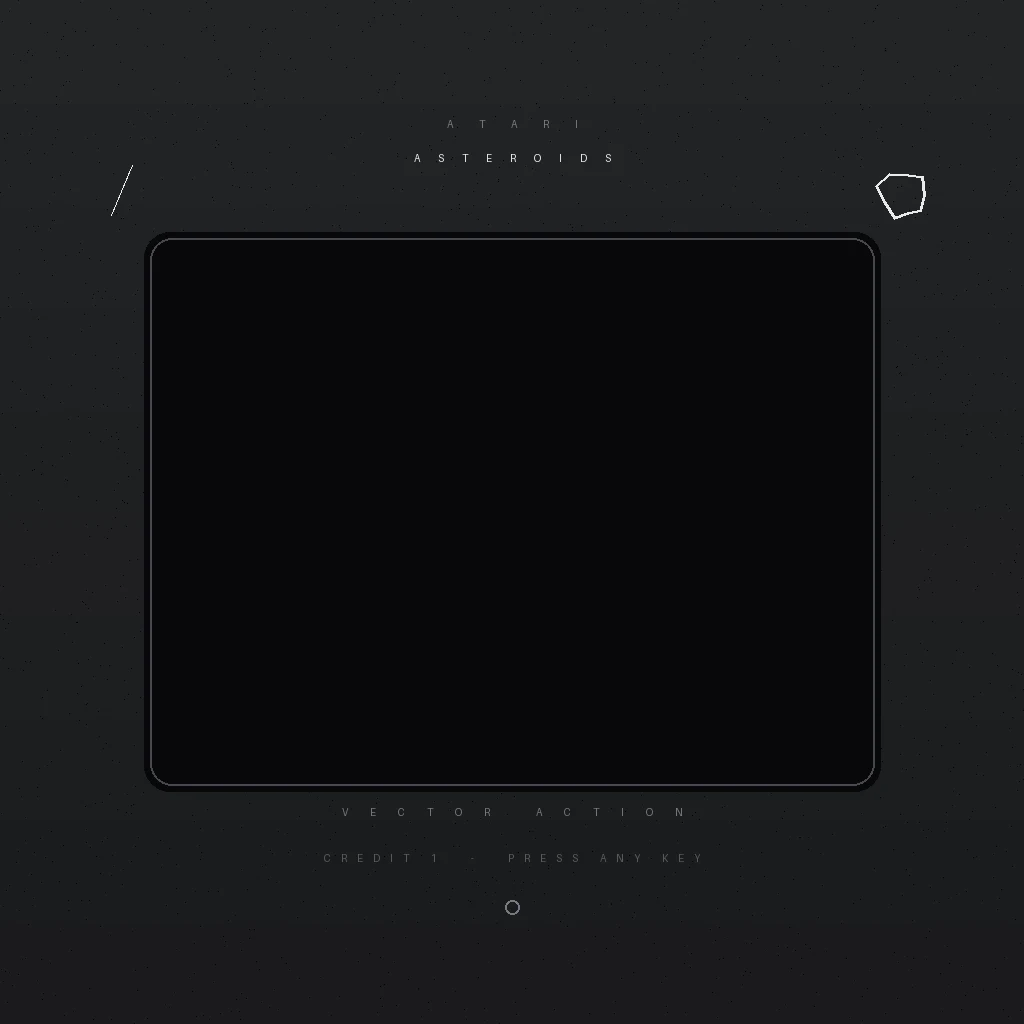
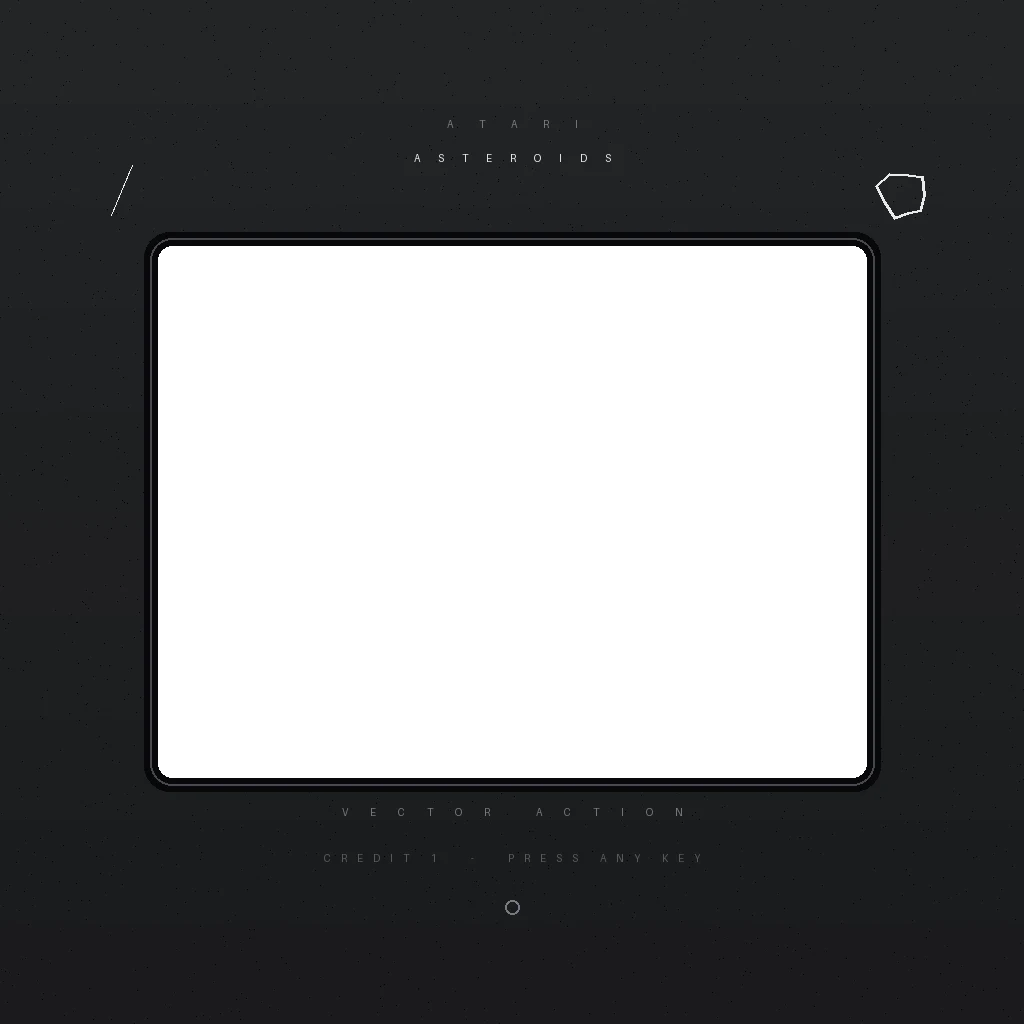
Fix: regenerate bezel.webp with alpha (was flattened opaque, covering the screen); scale cabinet to fill viewport; 2x internal render for crisp lines

diff --git a/index.html b/index.html
@@ -80,16 +80,19 @@
 // ============================================================
 
 const W = 580, H = 435;
+const DPR = 2; // internal supersample so vector lines stay crisp when upscaled
 const cv = document.getElementById("game");
-cv.width = W; cv.height = H;
+cv.width = W * DPR; cv.height = H * DPR;
 const ctx = cv.getContext("2d");
+ctx.setTransform(DPR, 0, 0, DPR, 0, 0);
 
-// Scale the cabinet to fit the viewport (same approach as PONG/LANDER).
+// Scale the cabinet to fill the viewport (vector art, so upscaling is fine;
+// the CRT shader softens any raster softness). 4% margin from the edges.
 const PANEL_W = 1024, PANEL_H = 1024; // bezel.png
 const bezel = document.getElementById("bezel");
 function fitCanvas() {
-  const scale = Math.min(1, window.innerWidth / PANEL_W, window.innerHeight / PANEL_H);
-  bezel.style.width = Math.floor(PANEL_W * scale) + "px";
+  const scale = Math.min(window.innerWidth / PANEL_W, window.innerHeight / PANEL_H) * 0.96;
+  bezel.style.width = Math.floor(PANEL_W * Math.max(scale, 0.2)) + "px";
 }
 window.addEventListener("resize", fitCanvas);
 fitCanvas();
@@ -757,6 +760,7 @@ requestAnimationFrame(frame);
 // Game renders to 2D canvas, uploaded as a texture and drawn through a
 // fragment shader (scanlines, barrel distortion / tube curvature, glass sheen).
 let fx = document.getElementById("fx");
+fx.width = W * DPR; fx.height = H * DPR; // 1:1 with the game canvas
 const crtlabel = document.getElementById("crtlabel");
 let fxGL = null;
 
